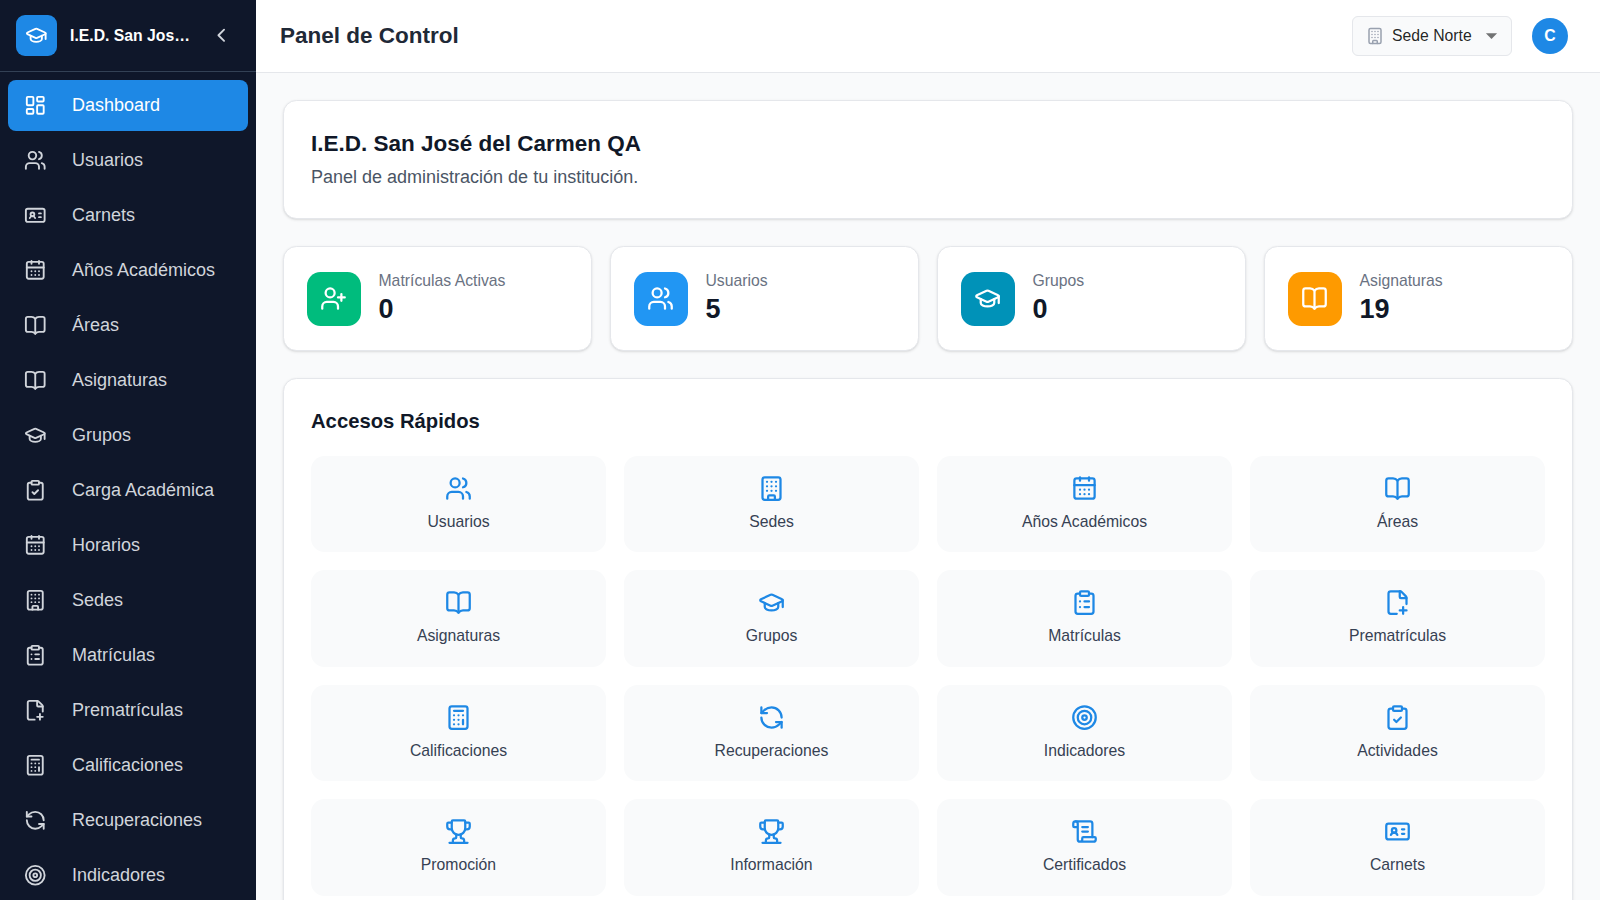
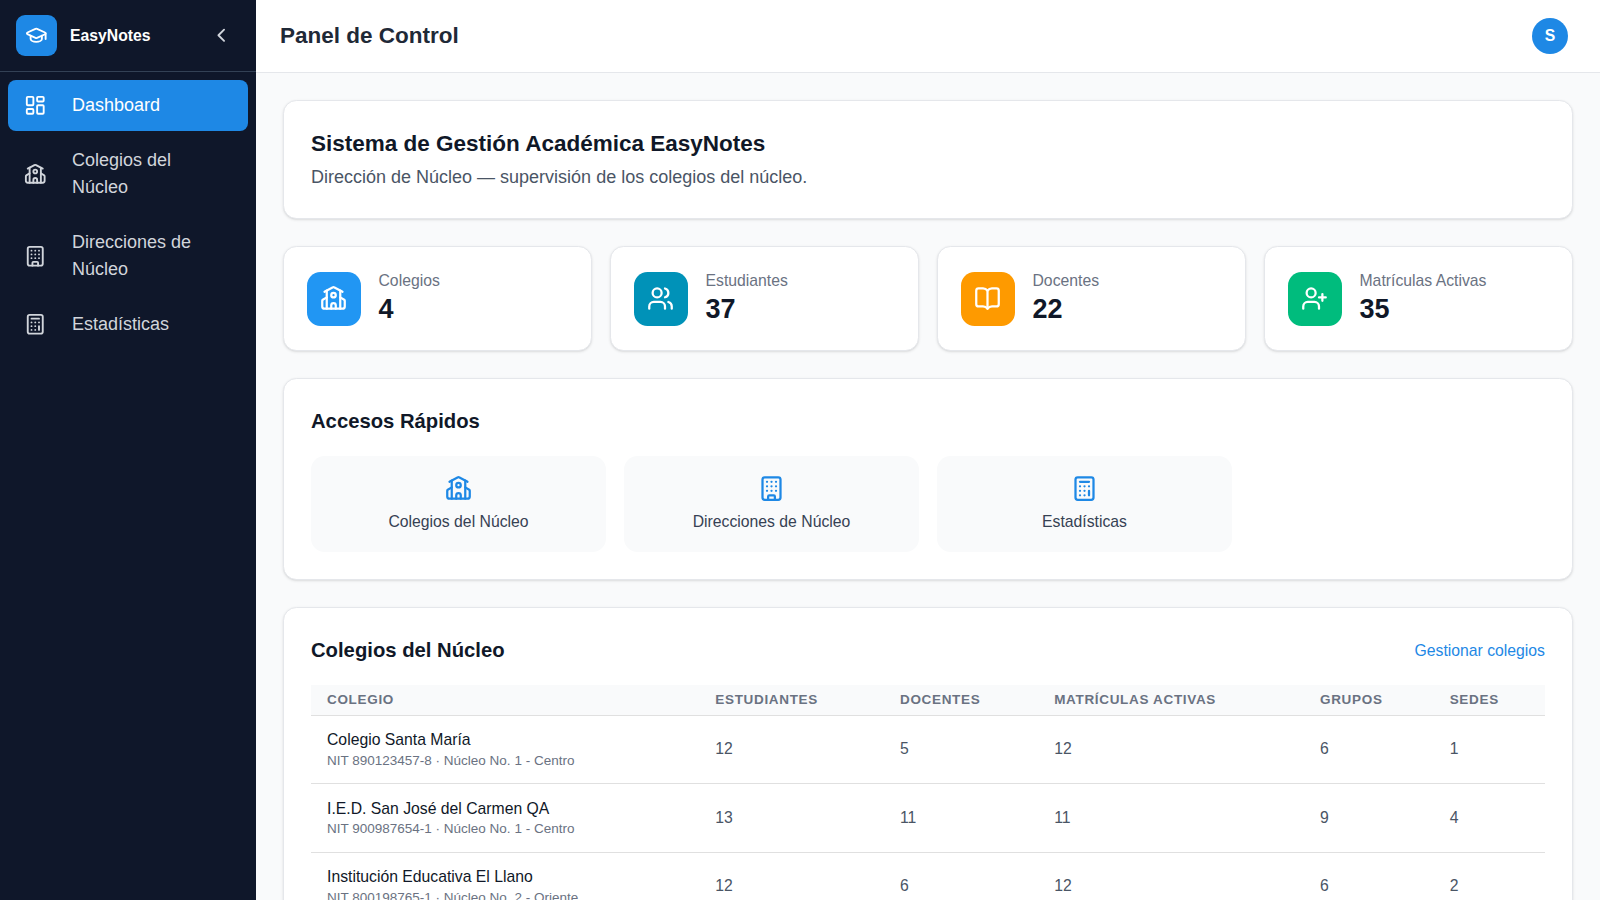
docs: capturas y explicación del perfil Super Admin

diff --git a/README.md b/README.md
@@ -20,19 +20,23 @@ EasyNotes v2 es una plataforma web para la administración completa de instituci
 
 ## Capturas
 
-**Login**
+> **Cuenta utilizada en las capturas:** perfil **Super Admin** (`super` / `123456` en el entorno de demostración), el rol de máximo nivel: administra los núcleos y colegios de todas las instituciones. El login es el mismo para todos los perfiles; lo que cambia es el menú y los permisos según el rol.
+
+**1. Login**
 
 ![Login](screenshots/01-login.png)
 
-**Dashboard y gestión académica**
+**2. Dashboard del Super Admin** — panel de dirección de núcleo con indicadores globales (colegios, estudiantes, docentes, matrículas activas) y accesos rápidos.
 
-| Dashboard | Matrículas |
-|---|---|
-| ![Dashboard](screenshots/02-dashboard.png) | ![Matrículas](screenshots/03-matriculas.png) |
+![Dashboard Super Admin](screenshots/02-dashboard.png)
 
-**Boletines de calificaciones**
+**3. Colegios del núcleo** — gestión de instituciones educativas con sus sedes, grupos y métricas.
 
-![Boletines](screenshots/04-boletin.png)
+![Colegios del núcleo](screenshots/03-instituciones.png)
+
+**4. Estadísticas del núcleo** — indicadores agregados de todos los colegios supervisados.
+
+![Estadísticas](screenshots/04-estadisticas.png)
 
 ---
 
